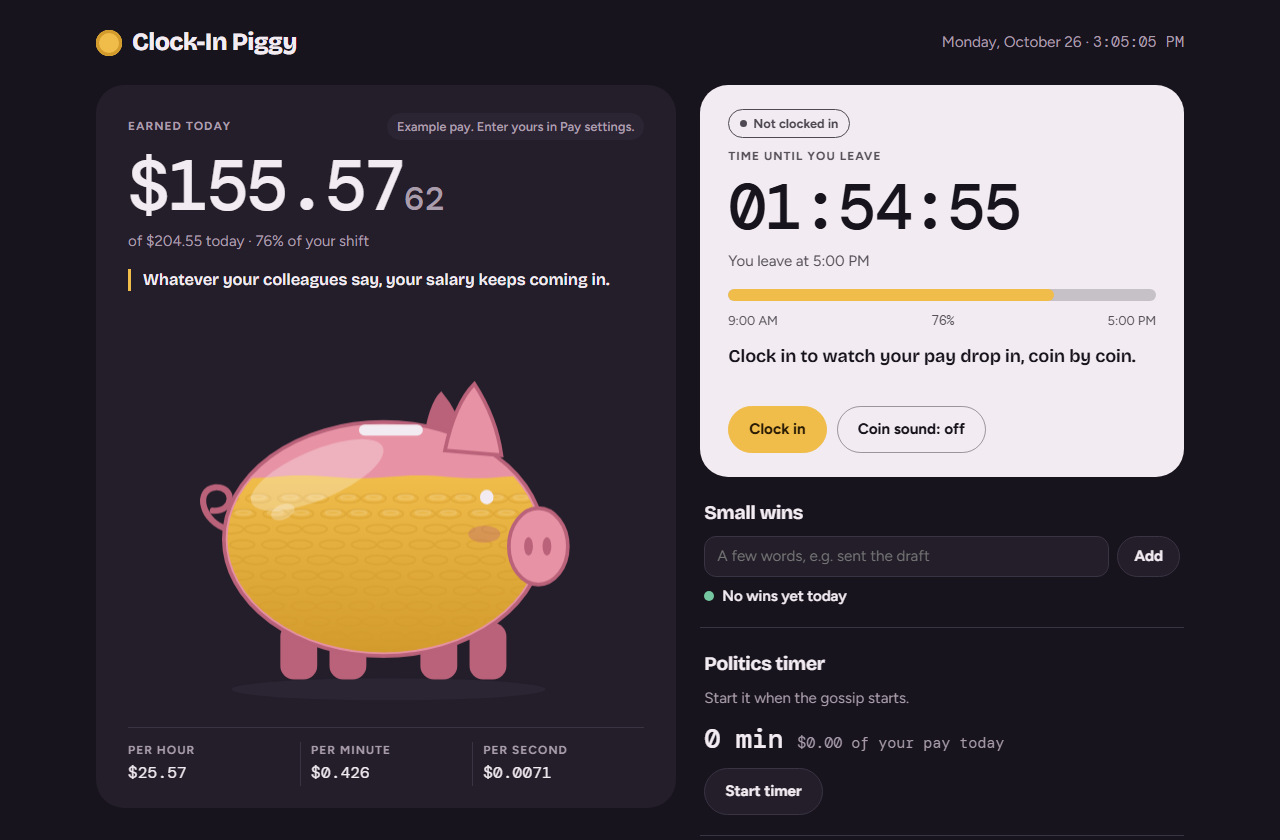
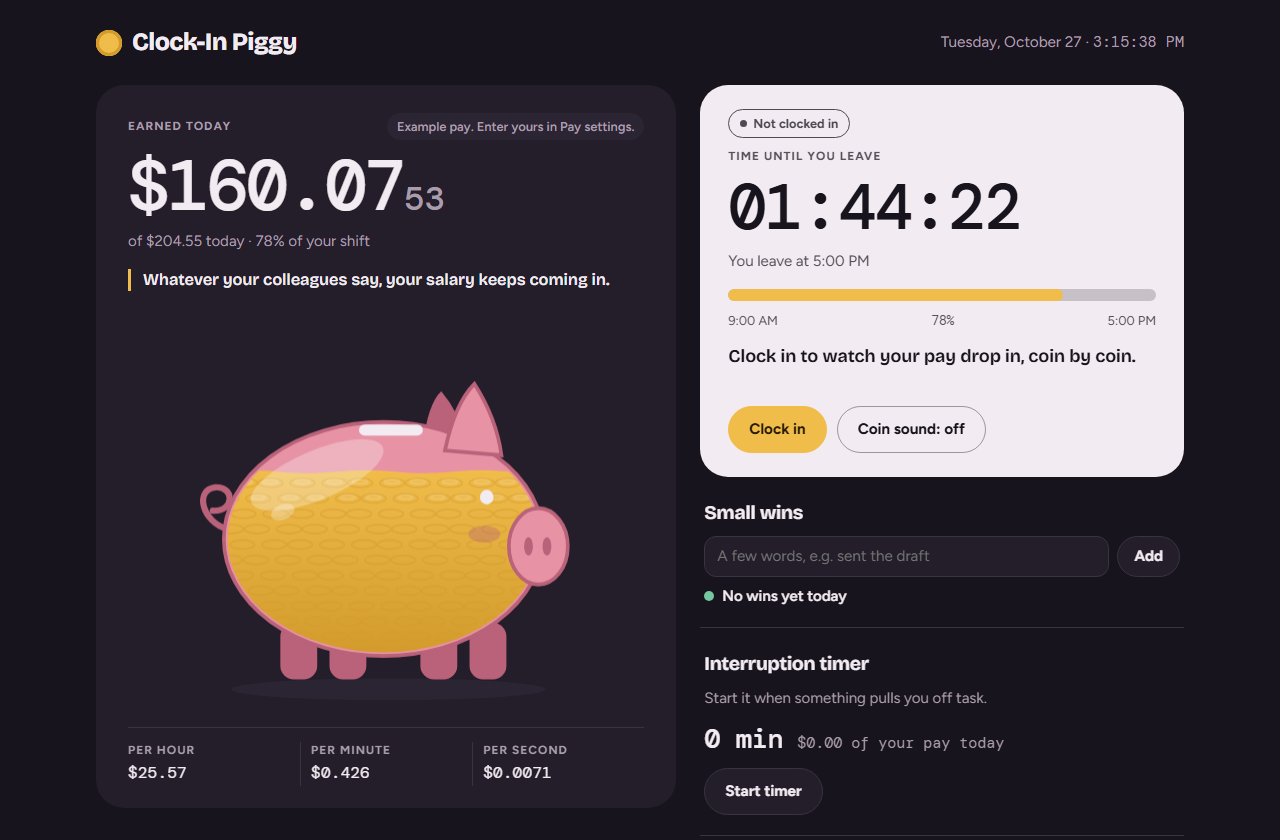
Add Excel and JSON export, rename timer, refresh screenshot

diff --git a/index.html b/index.html
@@ -193,10 +193,19 @@ fieldset.field{border:0;margin:0;padding:0}
       </section>
 
       <section class="tool" aria-labelledby="dramaTitle">
-        <h2 id="dramaTitle">Politics timer</h2>
-        <p>Start it when the gossip starts.</p>
+        <h2 id="dramaTitle">Interruption timer</h2>
+        <p>Start it when something pulls you off task.</p>
         <div class="meter-row"><span class="big mono" id="dramaTime">0 min</span><span class="sub mono" id="dramaMoney">$0.00 of your pay today</span></div>
         <button type="button" class="btn" id="dramaBtn">Start timer</button>
+      </section>
+
+      <section class="tool" aria-labelledby="exportTitle">
+        <h2 id="exportTitle">Export</h2>
+        <p id="exportSub">Daily results and the event log.</p>
+        <div class="actions">
+          <button type="button" class="btn" id="exportXlsx">Excel</button>
+          <button type="button" class="btn" id="exportJson">JSON</button>
+        </div>
       </section>
 
       <details class="tool settings" id="settings">
@@ -249,13 +258,36 @@ fieldset.field{border:0;margin:0;padding:0}
   const KEY = 'clockin-piggy-v1';
   const $ = id => document.getElementById(id);
   const reduceMQ = matchMedia('(prefers-reduced-motion: reduce)');
+  const hm = str => { const [h, m] = String(str || '0:0').split(':').map(Number); return [h || 0, m || 0]; };
   const dayKey = () => { const d = new Date(); return d.getFullYear() + '-' + (d.getMonth() + 1) + '-' + d.getDate(); };
   const DEFAULTS = {
     settings: { mode: 'monthly', amount: 4500, currency: 'USD', days: 22, start: '09:00', end: '17:00', example: true },
-    day: dayKey(), clockedIn: null, dramaMs: 0, dramaStart: null, milestones: [], wins: [], sound: false
+    day: dayKey(), clockedIn: null, dramaMs: 0, dramaStart: null, milestones: [], wins: [], sound: false,
+    firstIn: null, lastOut: null, banked: null, history: [], log: []
   };
   const clone = o => JSON.parse(JSON.stringify(o));
-  const freshDay = s => Object.assign(s, { day: dayKey(), clockedIn: null, dramaMs: 0, dramaStart: null, milestones: [], wins: [] });
+  const LOG_MAX = 5000, HISTORY_MAX = 1000;
+
+  // one row of daily results; `live` marks today while it is still running
+  function summarize(s, live) {
+    const set = s.settings, pay = dailyPay(set), sh = shift(Date.now(), set);
+    const drama = s.dramaMs + (s.dramaStart ? Date.now() - s.dramaStart : 0);
+    const banked = s.banked != null ? s.banked : (s.clockedIn && !live ? pay : null);
+    return {
+      date: s.day, status: live ? 'in progress' : 'closed', currency: set.currency, dailyPay: +pay.toFixed(2),
+      shiftStart: set.start, shiftEnd: set.end, clockIn: s.firstIn, clockOut: s.lastOut,
+      banked: banked == null ? null : +banked.toFixed(2),
+      wins: s.wins.length, winList: s.wins.map(w => w.text).join('; '),
+      interruptMin: +(drama / 60000).toFixed(1), interruptCost: +(drama * pay / sh.len).toFixed(2)
+    };
+  }
+  function freshDay(s) {
+    if (s.firstIn || s.wins.length || s.dramaMs || s.dramaStart) {
+      s.history.push(summarize(s, false));
+      if (s.history.length > HISTORY_MAX) s.history.splice(0, s.history.length - HISTORY_MAX);
+    }
+    return Object.assign(s, { day: dayKey(), clockedIn: null, dramaMs: 0, dramaStart: null, milestones: [], wins: [], firstIn: null, lastOut: null, banked: null });
+  }
 
   function load() {
     let s = null;
@@ -264,12 +296,18 @@ fieldset.field{border:0;margin:0;padding:0}
     if (s && typeof s === 'object') {
       Object.assign(out, s);
       out.settings = Object.assign({}, DEFAULTS.settings, s.settings || {});
+      if (!Array.isArray(out.history)) out.history = [];
+      if (!Array.isArray(out.log)) out.log = [];
     }
     if (out.day !== dayKey()) freshDay(out);
     return out;
   }
   function save() { try { localStorage.setItem(KEY, JSON.stringify(S)); } catch (e) {} }
   let S = load();
+  function logEvent(event, detail = '', amount = null) {
+    S.log.push({ time: Date.now(), event, detail, amount: amount == null ? null : +amount.toFixed(2), currency: S.settings.currency });
+    if (S.log.length > LOG_MAX) S.log.splice(0, S.log.length - LOG_MAX);
+  }
 
   /* ---------- money and time ---------- */
   let fmtCache = {};
@@ -281,16 +319,15 @@ fieldset.field{border:0;margin:0;padding:0}
     }
     return fmtCache[k].format(v);
   }
-  const hm = str => { const [h, m] = String(str || '0:0').split(':').map(Number); return [h || 0, m || 0]; };
-  function shift(now) {
-    const d = new Date(now), [sh, sm] = hm(S.settings.start), [eh, em] = hm(S.settings.end);
+  function shift(now, set = S.settings) {
+    const d = new Date(now), [sh, sm] = hm(set.start), [eh, em] = hm(set.end);
     const start = new Date(d.getFullYear(), d.getMonth(), d.getDate(), sh, sm).getTime();
     let end = new Date(d.getFullYear(), d.getMonth(), d.getDate(), eh, em).getTime();
     if (end <= start) end += 864e5;
     return { start, end, len: end - start };
   }
-  function dailyPay() {
-    const s = S.settings, a = Math.max(0, +s.amount || 0);
+  function dailyPay(s = S.settings) {
+    const a = Math.max(0, +s.amount || 0);
     return s.mode === 'daily' ? a : a / Math.max(1, +s.days || 22);
   }
   const clockFmt = ts => new Date(ts).toLocaleTimeString([], { hour: 'numeric', minute: '2-digit' });
@@ -350,23 +387,23 @@ fieldset.field{border:0;margin:0;padding:0}
   const MILESTONES = [
     [0.25, 'A quarter of the piggy is full. Keep a steady pace, not a frantic one.'],
     [0.5, 'Halfway there. Take a real lunch, away from your desk.'],
-    [0.75, 'Three quarters done. Wrap up. Don’t pick up new fights now.'],
+    [0.75, 'Three quarters done. Wrap up. Don’t start anything big now.'],
     [1, 'The piggy is full. Today’s pay is banked. Go home.']
   ];
   const ENCOURAGE = [
     'Every minute here is already paid. You don’t need to earn it twice.',
-    'You are paid for your work. Winning arguments is not in your contract.',
+    'You are paid for your work. Not every point needs to be won.',
     'Not every message needs an answer right now.',
-    'Office drama doesn’t make the piggy fill any faster.',
+    'Rushing doesn’t make the piggy fill any faster.',
     'Do the next useful thing. Then the one after that.',
     'Good enough and on time beats perfect and late.',
     'Protect your evening. It’s not part of the shift.'
   ];
   const WISDOM = [
     'Whatever your colleagues say, your salary keeps coming in.',
-    'Gossip doesn’t change your pay. Let it pass.',
-    'Your worth isn’t decided in the meeting room.',
-    'Someone else’s bad mood is not on your payslip.',
+    'Not every conversation needs your energy. Let some pass.',
+    'One meeting doesn’t decide your worth.',
+    'Look after your own part of the day. That is enough.',
     'Do your part well. The rest is noise.'
   ];
 
@@ -536,6 +573,7 @@ fieldset.field{border:0;margin:0;padding:0}
     err.hidden = true;
     S.settings = { mode, amount, currency: $('currency').value, days: mode === 'monthly' ? days : (S.settings.days || 22), start, end, example: false };
     fmtCache = {};
+    logEvent('pay settings saved', mode + ' ' + amount + ' ' + S.settings.currency + ', ' + start + ' to ' + end, dailyPay());
     save();
     toast('Pay saved. Today is worth ' + fmt(dailyPay()) + '.');
   });
@@ -552,6 +590,7 @@ fieldset.field{border:0;margin:0;padding:0}
     if (!v) { $('winInput').focus(); return; }
     ensureAudio();
     S.wins.push({ t: Date.now(), text: v });
+    logEvent('small win', v);
     $('winInput').value = '';
     save(); renderWins(); spawnCoin(0, true);
   });
@@ -565,14 +604,18 @@ fieldset.field{border:0;margin:0;padding:0}
       const sh = shift(now), prog = Math.min(1, Math.max(0, (now - sh.start) / sh.len));
       S.milestones = MILESTONES.filter(m => prog >= m[0]).map(m => m[0]);
       lastDrop = now - 4000;
+      if (!S.firstIn) S.firstIn = now;
+      logEvent('clock in');
       keepAwake();
       save();
       toast(now >= sh.end ? 'You clocked in after your shift ended. The piggy is already full.' : 'Clocked in. Watch the piggy fill up.');
     } else {
       const sh = shift(now), el = Math.min(Math.max(now - sh.start, 0), sh.len), n = S.wins.length;
       S.clockedIn = null;
-      if (S.dramaStart) { S.dramaMs += now - S.dramaStart; S.dramaStart = null; }
+      if (S.dramaStart) { S.dramaMs += now - S.dramaStart; logEvent('interruption timer stop', Math.round((now - S.dramaStart) / 60000) + ' min', (now - S.dramaStart) * dailyPay() / sh.len); S.dramaStart = null; }
       if (wake) { wake.release().catch(() => {}); wake = null; }
+      S.lastOut = now; S.banked = el * dailyPay() / sh.len;
+      logEvent('clock out', n + ' win' + (n === 1 ? '' : 's'), S.banked);
       save();
       toast('Clocked out. You banked ' + fmt(el * dailyPay() / sh.len) + (n ? ' and ' + n + ' win' + (n > 1 ? 's' : '') : '') + ' today. Rest well.');
     }
@@ -587,13 +630,86 @@ fieldset.field{border:0;margin:0;padding:0}
     if (S.dramaStart) {
       const took = now - S.dramaStart, sh = shift(now);
       S.dramaMs += took; S.dramaStart = null;
+      logEvent('interruption timer stop', Math.max(1, Math.round(took / 60000)) + ' min', took * dailyPay() / sh.len);
       toast('That took ' + Math.max(1, Math.round(took / 60000)) + ' min, about ' + fmt(took * dailyPay() / sh.len) + ' of your paid day.');
     } else {
       S.dramaStart = now;
-      toast('Whatever they say, your salary keeps coming in.');
+      logEvent('interruption timer start');
+      toast('Timer on. Your pay keeps coming in either way.');
     }
     save();
   });
+
+  /* ---------- export ---------- */
+  const stamp = ts => {
+    if (!ts) return '';
+    const d = new Date(ts), p = n => String(n).padStart(2, '0');
+    return d.getFullYear() + '-' + p(d.getMonth() + 1) + '-' + p(d.getDate()) + ' ' + p(d.getHours()) + ':' + p(d.getMinutes()) + ':' + p(d.getSeconds());
+  };
+  function exportRows() {
+    const days = S.history.concat(summarize(S, true)).map(r => Object.assign({}, r, { clockIn: stamp(r.clockIn), clockOut: stamp(r.clockOut) }));
+    const log = S.log.map(e => Object.assign({}, e, { time: stamp(e.time) }));
+    return { days, log };
+  }
+  const fileBase = () => 'clockin-piggy-' + stamp(Date.now()).slice(0, 10);
+
+  // claude.ai viewer asks before saving; opened as a local file it falls back to a plain browser download
+  let dlNs;
+  async function offerFile(filename, data) {
+    if (dlNs === undefined) dlNs = window.claude && window.claude.use ? await window.claude.use('downloads').catch(() => null) : null;
+    if (dlNs) {
+      try { await dlNs.save({ filename, data }); toast('Saved ' + filename + '.'); }
+      catch (e) { if (e && e.code !== 'declined') toast('Could not save the file here.'); }
+      return;
+    }
+    const url = URL.createObjectURL(data instanceof Blob ? data : new Blob([data]));
+    const a = document.createElement('a');
+    a.href = url; a.download = filename; document.body.appendChild(a); a.click(); a.remove();
+    setTimeout(() => URL.revokeObjectURL(url), 2000);
+  }
+
+  let xlsxLib = null;
+  function loadXlsx() {
+    if (window.XLSX) return Promise.resolve(window.XLSX);
+    return xlsxLib = xlsxLib || new Promise((ok, fail) => {
+      const sc = document.createElement('script');
+      sc.src = 'https://cdnjs.cloudflare.com/ajax/libs/xlsx/0.18.5/xlsx.full.min.js';
+      sc.onload = () => ok(window.XLSX);
+      sc.onerror = () => { xlsxLib = null; fail(new Error('load')); };
+      document.head.appendChild(sc);
+    });
+  }
+  const DAY_COLS = [['date', 'Date'], ['status', 'Status'], ['currency', 'Currency'], ['dailyPay', 'Daily pay'], ['shiftStart', 'Shift start'], ['shiftEnd', 'Shift end'],
+    ['clockIn', 'First clock in'], ['clockOut', 'Last clock out'], ['banked', 'Banked'], ['wins', 'Wins'], ['winList', 'Win notes'], ['interruptMin', 'Interruption minutes'], ['interruptCost', 'Interruption cost']];
+  const LOG_COLS = [['time', 'Time'], ['event', 'Event'], ['detail', 'Detail'], ['amount', 'Amount'], ['currency', 'Currency']];
+  const sheet = (X, rows, cols) => {
+    const ws = X.utils.aoa_to_sheet([cols.map(c => c[1])].concat(rows.map(r => cols.map(c => r[c[0]] == null ? '' : r[c[0]]))));
+    ws['!cols'] = cols.map(c => ({ wch: Math.max(c[1].length + 2, c[0] === 'winList' || c[0] === 'detail' ? 36 : 12) }));
+    return ws;
+  };
+
+  $('exportJson').addEventListener('click', () => {
+    const { days, log } = exportRows();
+    const out = { exported: stamp(Date.now()), settings: S.settings, dailyResults: days, eventLog: log };
+    offerFile(fileBase() + '.json', JSON.stringify(out, null, 2));
+  });
+  $('exportXlsx').addEventListener('click', async () => {
+    const btn = $('exportXlsx');
+    btn.disabled = true;
+    try {
+      const X = await loadXlsx(), { days, log } = exportRows(), wb = X.utils.book_new();
+      X.utils.book_append_sheet(wb, sheet(X, days, DAY_COLS), 'Daily results');
+      X.utils.book_append_sheet(wb, sheet(X, log, LOG_COLS), 'Event log');
+      const buf = X.write(wb, { bookType: 'xlsx', type: 'array' });
+      await offerFile(fileBase() + '.xlsx', new Blob([buf]));
+    } catch (e) {
+      toast('Excel export needs an internet connection. Try JSON instead.');
+    } finally { btn.disabled = false; }
+  });
+  function renderExportSub() {
+    const n = S.history.length + 1, e = S.log.length;
+    setText($('exportSub'), n + ' day' + (n > 1 ? 's' : '') + ' of results and ' + e + ' logged event' + (e === 1 ? '' : 's') + '.');
+  }
 
   /* ---------- main loop ---------- */
   const todayEl = $('todayLabel');
@@ -676,11 +792,11 @@ fieldset.field{border:0;margin:0;padding:0}
     }
     if (on) {
       for (const [p, text] of MILESTONES) {
-        if (prog >= p && !S.milestones.includes(p)) { S.milestones.push(p); save(); toast(text); }
+        if (prog >= p && !S.milestones.includes(p)) { S.milestones.push(p); logEvent('milestone', Math.round(p * 100) + '% of shift', earned); save(); toast(text); }
       }
     }
 
-    // politics timer
+    // interruption timer
     const dramaTotal = S.dramaMs + (S.dramaStart ? now - S.dramaStart : 0);
     setText($('dramaTime'), S.dramaStart ? hms(dramaTotal).replace(/^00:/, '') : mins(dramaTotal));
     setText($('dramaMoney'), fmt(dramaTotal * rate) + ' of your pay today');
@@ -688,6 +804,7 @@ fieldset.field{border:0;margin:0;padding:0}
     setText(db, S.dramaStart ? 'Stop timer' : 'Start timer');
     db.classList.toggle('running', !!S.dramaStart);
 
+    renderExportSub();
     drawPig(dt, t / 1000, prog, live);
     requestAnimationFrame(frame);
   }
@@ -699,5 +816,3 @@ fieldset.field{border:0;margin:0;padding:0}
   requestAnimationFrame(frame);
 })();
 </script>
-
-</html>

diff --git a/README.md b/README.md
@@ -2,7 +2,7 @@
 
 A small web page for the working day. Clock in when you start, and watch your pay drop into a glass piggy bank, coin by coin, while a countdown shows how long until you leave.
 
-It is made for people close to burnout or tired of office politics. Whatever your colleagues say, your salary keeps coming in.
+It is made for people close to burnout who want a calmer workday. Whatever happens in the office, your salary keeps coming in.
 
 ![Piggy Payroll showing today's earnings filling a piggy bank and a countdown to 5:00 PM](docs/screenshot.png)
 
@@ -11,12 +11,13 @@ It is made for people close to burnout or tired of office politics. Whatever you
 - **Live earnings.** Enter a monthly paycheck or a daily salary. The page works out your pay per hour, minute and second and fills the piggy as the shift goes on.
 - **Countdown.** Time left until you leave, with a progress bar. After your end time it shows unpaid minutes and tells you to go home.
 - **Small wins.** Type a few words about anything you moved forward. Each win drops a green coin into the piggy.
-- **Politics timer.** Start it when the gossip starts and see how much of your paid day it takes.
+- **Interruption timer.** Start it when something pulls you off task and see how much of your paid day it takes.
+- **Export.** Download your daily results and an event log as an Excel workbook or a JSON file.
 - **Short wisdom lines.** A calm reminder that changes every 40 seconds.
 
 ## Use it
 
-Open `index.html` in any browser. No install and no account. Your pay and times are stored only in your own browser and are never sent anywhere.
+Open `index.html` in any browser. No install and no account. Your pay, times and history are stored only in your own browser and are never sent anywhere. Excel export loads a free spreadsheet library from cdnjs the first time you use it.
 
 ## Why it works
 
